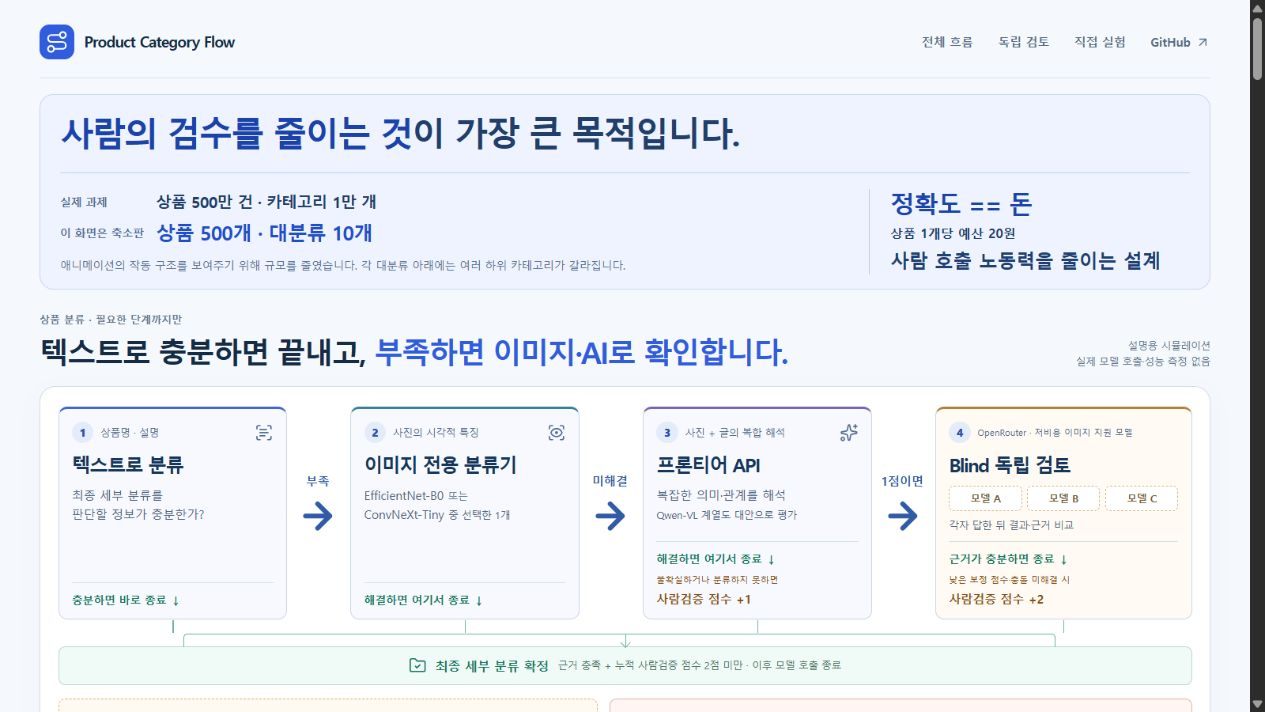
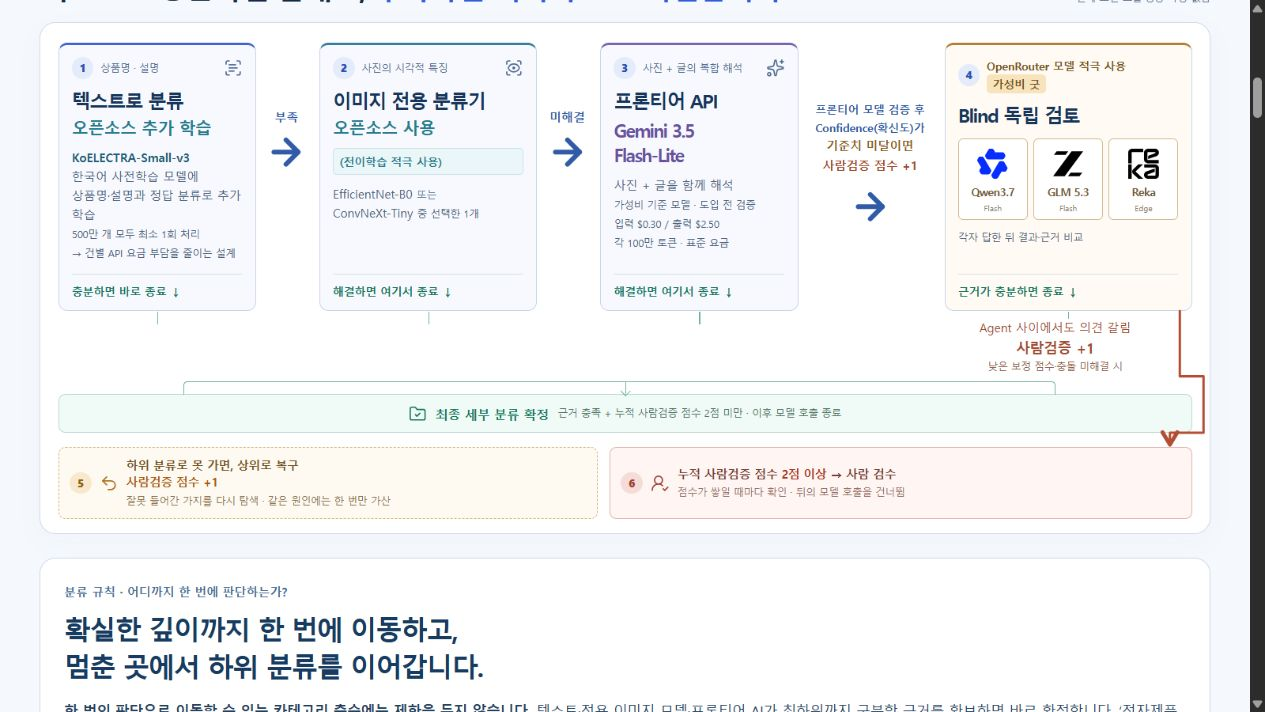
Use one review point for unresolved blind classification

diff --git a/index.html b/index.html
@@ -819,7 +819,7 @@ SOFTWARE.
   <path d="m9 15 3 3-3 3" />
[1 lines of base64/hex data omitted]
   </div>
-  <div class="cascade-score-label" id="cascade-score-label"><span>Agent 사이에서도 의견 갈림</span><strong>사람검증 +2</strong><small>낮은 보정 점수·충돌 미해결 시</small></div>
+  <div class="cascade-score-label" id="cascade-score-label"><span>Agent 사이에서도 의견 갈림</span><strong>사람검증 +1</strong><small>낮은 보정 점수·충돌 미해결 시</small></div>
   <svg class="cascade-score-route" id="cascade-score-route" aria-hidden="true"><defs><marker id="cascade-score-arrow" markerWidth="8" markerHeight="8" refX="6" refY="4" orient="auto"><path d="M1 1 L6 4 L1 7" fill="none" stroke="#b34e35" stroke-width="1.6" stroke-linecap="round" stroke-linejoin="round"/></marker></defs><path id="cascade-score-path" fill="none" stroke="#b34e35" stroke-width="2.5" stroke-linejoin="round" stroke-linecap="round" marker-end="url(#cascade-score-arrow)"/></svg>
   <div class="cascade-success"><span class="success-spoke" aria-hidden="true"></span><svg class="landing-icon" viewBox="0 0 24 24" aria-hidden="true">
   <path d="M20 20a2 2 0 0 0 2-2V8a2 2 0 0 0-2-2h-7.9a2 2 0 0 1-1.69-.9L9.6 3.9A2 2 0 0 0 7.93 3H4a2 2 0 0 0-2 2v13a2 2 0 0 0 2 2Z" />
@@ -871,7 +871,7 @@ SOFTWARE.
    <ol>
     <li><strong>프론티어도 음향기기까지만 판단</strong><p>중간 경로는 보존하고, 최하위 미해결에 따른 사람검증 점수 +1을 기록합니다. 누적 2점 미만일 때만 독립 검토를 진행합니다.</p></li>
     <li><strong>AI Agent들이 먼저 각각 판단</strong><p>같은 원본 사진·글·분류 기준을 주고 서로의 답과 앞선 프론티어의 답을 숨깁니다. ‘음향기기’라는 이전 판단도 강제하지 않아 상위 분류부터 다시 확인할 수 있습니다.</p></li>
-    <li><strong>답 공개 후 의견·근거 비교</strong><p>각 후보의 사진·텍스트 근거와 반례를 비교합니다. 최하위 근거가 충족되면 확정하고, 여전히 불명확하면 +2를 더해 사람 검수로 보냅니다.</p></li>
+    <li><strong>답 공개 후 의견·근거 비교</strong><p>각 후보의 사진·텍스트 근거와 반례를 비교합니다. 최하위 근거가 충족되면 확정하고, 여전히 불명확하면 +1을 더해 누적 2점으로 사람 검수에 보냅니다.</p></li>
    </ol>
    <p class="depth-path">음향기기에서 보류 → <strong>독립 판단 → 근거 비교</strong><br>최하위 확정 또는 <strong>사람 검수</strong></p>
    <p class="depth-outcome">단순 다수결·자기확신 점수 평균으로 최종 확정하지 않음</p>
@@ -883,7 +883,7 @@ SOFTWARE.
    <li><strong>확실한 가장 깊은 위치를 선택합니다.</strong> 정해진 분류표 안에서 근거가 충분한 깊이까지 이동합니다. ‘한 번에 한 층’ 제한은 없지만, 애매하다고 자동으로 다음 층에 진입하지도 않습니다. 판정 기준은 별도 정답 자료로 검증합니다.</li>
    <li><strong>중간 분류는 완료가 아닌 진행 상태입니다.</strong> 원본 입력, 현재 경로·분류표 버전, 남은 후보, 판단 근거와 부족한 정보를 기록합니다. 프론티어는 이를 보조 정보로 활용하면서 원본을 확인하고, 독립 검토의 첫 판단에는 이전 답을 노출하지 않습니다.</li>
    <li><strong>추가 판단은 부족한 근거를 보완할 때 진행합니다.</strong> 사진만으로 부족하면 텍스트까지 함께 보고, 프론티어도 해결하지 못하면 독립 판단 후 근거를 비교합니다. 같은 입력·같은 질문을 카테고리 층마다 반복 호출하지 않습니다. 전용 이미지 모델 자체는 사진만 입력받습니다.</li>
-   <li><strong>잘못된 가지는 되돌리고, 반복 검토는 제한합니다.</strong> 후속 근거와 상위 분류가 충돌하면 상위로 돌아가 대체 후보를 비교합니다. 복구는 1회이며 +1을 기록합니다. 프론티어 미해결 +1, 독립 검토 미해결 +2의 기존 규칙을 유지하고, 누적 2점 이상이면 이후 AI 호출을 중단합니다. 중간에서 멈췄다는 이유만으로 점수를 중복 가산하지 않습니다.</li>
+   <li><strong>잘못된 가지는 되돌리고, 반복 검토는 제한합니다.</strong> 후속 근거와 상위 분류가 충돌하면 상위로 돌아가 대체 후보를 비교합니다. 복구는 1회이며 +1을 기록합니다. 프론티어 미해결 +1, 독립 검토 미해결 +1을 기록하고, 누적 2점 이상이면 이후 AI 호출을 중단합니다. 중간에서 멈췄다는 이유만으로 점수를 중복 가산하지 않습니다.</li>
   </ol>
  </div>
  <p class="depth-scope">위 내용은 적용할 분류 정책을 설명하는 가상 예시입니다. 현재 500개 상품 애니메이션에는 중간 분류를 보존하고 이어서 판단하는 새 동작이 아직 연결되어 있지 않습니다. 실제 모델 호출·정답 기반 기준 검증·비용 측정도 수행 전입니다.</p>
@@ -897,7 +897,7 @@ SOFTWARE.
   <rect x="14" y="3" width="5" height="18" rx="1" />
   <rect x="5" y="3" width="5" height="18" rx="1" />
 </svg></span></span><span id="hero-play-label">분류 과정 재생</span></button><a class="landing-secondary" href="#agent-debate">독립 검토 예시 ↓</a></div><div class="journey-live"><div class="journey-live-top"><span id="hero-status">재생 준비</span><b id="hero-time">0 / 100</b></div><div class="journey-progress" aria-hidden="true"><span id="hero-progress"></span></div><div class="journey-counts"><span>분류 중 <b id="hero-active">10</b></span><span>도착 <b id="hero-done">0</b></span><span>사람 대기 <b id="hero-human">0</b></span><button type="button" id="hero-reset">처음부터 ↺</button></div></div></div>
- <details class="cascade-notes"><summary>사람검증 점수·모델 선택 기준</summary><div><p><strong>1단계 텍스트 모델 · KoELECTRA-Small-v3:</strong> <a href="https://huggingface.co/monologg/koelectra-small-v3-discriminator" target="_blank" rel="noopener noreferrer">monologg/koelectra-small-v3-discriminator</a>를 우선 후보로 선정했습니다. 한국어로 사전학습된 공개 모델에 분류 기능을 붙이고, 상품명·설명과 정답 카테고리로 추가 학습하고 직접 운영하는 설계입니다. 전체 500만 개 상품과 이후 신규 상품이 최소 한 번 거치므로, 건마다 외부 API를 호출하는 비용과 처리량 제약을 줄이려는 선택입니다. 학습 데이터 정리·학습·서버·유지보수 비용은 발생하며, 실제 절감 여부는 전체 비용으로 검증합니다. 검증용 정답에서 보정한 점수와 근거가 부족한 상품만 다음 단계로 보냅니다. KoELECTRA-Small-v3와 KLUE-RoBERTa-small을 같은 정답 상품으로 비교해 오확정률·자동 확정률·처리시간·전체 비용을 검증한 뒤 채택합니다. 아직 이번 상품 분류용으로 추가 학습하거나 성능을 측정하지 않았습니다.</p><p><strong>전용 분류기:</strong> 상품 카테고리에 맞춰 추가 학습한 뒤, 별도로 둔 같은 정답 상품으로 비교합니다. 기본 공개 가중치의 ImageNet 1,000개 분류를 과제의 1만 개 상품 분류로 그대로 쓰지는 않습니다. <a href="https://docs.pytorch.org/vision/main/models/generated/torchvision.models.efficientnet_b0.html" target="_blank" rel="noopener noreferrer">EfficientNet-B0</a> · <a href="https://docs.pytorch.org/vision/main/models/generated/torchvision.models.convnext_tiny.html" target="_blank" rel="noopener noreferrer">ConvNeXt-Tiny 공식 문서</a></p><div class="api-choice-evidence"><h3>3단계 API 선택 근거 · 2026.10.29 확인</h3><p><strong>가성비 기준 모델: Gemini 3.5 Flash-Lite.</strong> 이미지와 텍스트를 함께 입력할 수 있는 <a href="https://ai.google.dev/gemini-api/docs/models/gemini-3.5-flash-lite" target="_blank" rel="noopener noreferrer">gemini-3.5-flash-lite</a>를 우선 검증합니다. Google 공식 CharXiv(복잡한 차트 해석) 평가는 74.5%(High 추론 설정 · 도구 미사용)입니다. 제조사 공개 평가이며, 이 상품 분류 과제의 정확도나 모든 모델 중 최고 가성비를 입증하지는 않습니다.</p><div class="api-choice-table"><table><caption>공식 표준 API 요금 비교 · USD / 100만 토큰 · 캐시·Batch 할인 제외</caption><thead><tr><th scope="col">모델</th><th scope="col">입력</th><th scope="col">출력</th><th scope="col">판단 근거</th></tr></thead><tbody><tr><th scope="row">Gemini 3.5 Flash-Lite</th><td>$0.30</td><td>$2.50</td><td>현재 선정한 가성비 기준 모델 · 이미지·텍스트 복합 해석</td></tr><tr><th scope="row">Gemini 3.1 Flash-Lite</th><td>$0.25</td><td>$1.50</td><td>단가가 더 낮은 비교 후보 · 동일 상품으로 품질 검증</td></tr><tr><th scope="row">Qwen3-VL-Flash</th><td>$0.05</td><td>$0.40</td><td>더 저렴한 비교 후보 · 싱가포르 International, 입력 32K 이하</td></tr></tbody></table></div><p>동일 조건의 상품 분류 비교 결과는 아직 확보하지 못했습니다. 이미지를 포함한 입력 토큰 수·해상도·추론 토큰은 모델마다 다릅니다. 먼저 1·2단계에서 남은 어려운 상품의 별도 정답 묶음으로 최종 세부 분류 정확도, 잘못 확정한 비율, 사람 검수량, 지연시간과 총비용을 비교합니다. <strong>같은 품질 기준을 통과한 모델 중 전체 비용이 낮은 모델을 최종 선택합니다.</strong></p><p class="api-choice-sources">출처: <a href="https://ai.google.dev/gemini-api/docs/models/gemini-3.5-flash-lite" target="_blank" rel="noopener noreferrer">3.5 공식 모델 문서</a> · <a href="https://deepmind.google/models/model-cards/gemini-3-5-flash-lite/" target="_blank" rel="noopener noreferrer">3.5 공식 평가</a> · <a href="https://ai.google.dev/gemini-api/docs/pricing" target="_blank" rel="noopener noreferrer">Gemini 공식 요금</a> · <a href="https://www.alibabacloud.com/help/en/model-studio/model-pricing" target="_blank" rel="noopener noreferrer">Qwen 공식 요금</a></p></div><div class="api-choice-evidence"><h3>독립 검토 선정 모델 · 2026.10.29</h3><div class="api-choice-table"><table><caption>OpenRouter 공급자별 요금 예시 · USD / 100만 토큰 · 입력 / 출력</caption><thead><tr><th scope="col">모델</th><th scope="col">입력 / 출력</th><th scope="col">선정 이유</th></tr></thead><tbody><tr><th scope="row"><a href="https://openrouter.ai/qwen/qwen3.7-flash" target="_blank" rel="noopener noreferrer">Qwen3.7 Flash</a></th><td>$0.03 / $0.13</td><td>물체 인식·시각 이해 · 낮은 단가</td></tr><tr><th scope="row"><a href="https://openrouter.ai/z-ai/glm-5.3-flash" target="_blank" rel="noopener noreferrer">GLM 5.3 Flash</a></th><td>$0.0481 / $0.0625</td><td>다른 계열의 독립 판정 · 출력 비용 절감</td></tr><tr><th scope="row"><a href="https://openrouter.ai/rekaai/reka-edge" target="_blank" rel="noopener noreferrer">Reka Edge</a></th><td>$0.10 / $0.10</td><td>이미지 이해 중심 · 낮은 출력 단가</td></tr></tbody></table></div><p>요금은 각각 Alibaba(입력 32K 미만), OpenInference, Reka 공급자 경로의 확인값입니다. 이미지 해상도·토큰 수·추론·재시도·공급자에 따라 실제 상품당 비용은 달라집니다. 앞 단계가 해결하지 못한 같은 정답 상품으로 정확도·오확정률·사람 검수량·전체 비용을 비교합니다. 현재 답안은 실제 모델 호출 결과가 아닌 설계용 예시입니다.</p></div><p><strong>독립 검토:</strong> 이미지 입력을 지원하는 모델마다 같은 상품 정보와 분류 기준을 줍니다. 첫 답을 낼 때는 다른 모델과 프론티어의 결론을 보여주지 않고, 답이 모두 나온 뒤에 비교합니다. <a href="https://github.com/OpenRouterTeam/docs/blob/main/guides/overview/multimodal/image-understanding.mdx" target="_blank" rel="noopener noreferrer">OpenRouter 이미지 입력 문서</a></p><p><strong>확신도:</strong> 서로 다른 모델이 스스로 매긴 숫자를 그대로 평균 내지 않습니다. 같은 후보를 기준으로 정답 데이터에 맞춰 보정한 점수와 근거 일치 여부를 함께 확인합니다. 이 화면의 점수는 규칙 설명용 가상 값이며 실제 보정 결과가 아닙니다. <a href="https://proceedings.mlr.press/v70/guo17a.html" target="_blank" rel="noopener noreferrer">확신도 보정 연구</a></p><p><strong>누적 사람검증 점수:</strong> 사람이 확인해야 할 필요성을 누적하는 규칙 점수로, 모델의 신뢰도와는 다릅니다. 프론티어 불확실 +1, 독립 검토 후 확신 부족·미해결 충돌 +2, 경로 복구 +1을 더합니다. 복구 1점 + 프론티어 1점이면 독립 검토 전에 사람에게 보냅니다. 프론티어 1점 + 독립 검토 2점이면 합계 3점입니다. 사진을 읽을 수 없거나 안전하게 분류할 근거가 없으면 점수와 별개로 보류할 수 있습니다.</p><p><strong>평균 예산 20원:</strong> 총 1억 원 ÷ 500만 상품의 평균입니다. 학습·서버·API·사람 검수·오분류 수정 비용을 함께 비교해야 합니다.</p></div></details>
+ <details class="cascade-notes"><summary>사람검증 점수·모델 선택 기준</summary><div><p><strong>1단계 텍스트 모델 · KoELECTRA-Small-v3:</strong> <a href="https://huggingface.co/monologg/koelectra-small-v3-discriminator" target="_blank" rel="noopener noreferrer">monologg/koelectra-small-v3-discriminator</a>를 우선 후보로 선정했습니다. 한국어로 사전학습된 공개 모델에 분류 기능을 붙이고, 상품명·설명과 정답 카테고리로 추가 학습하고 직접 운영하는 설계입니다. 전체 500만 개 상품과 이후 신규 상품이 최소 한 번 거치므로, 건마다 외부 API를 호출하는 비용과 처리량 제약을 줄이려는 선택입니다. 학습 데이터 정리·학습·서버·유지보수 비용은 발생하며, 실제 절감 여부는 전체 비용으로 검증합니다. 검증용 정답에서 보정한 점수와 근거가 부족한 상품만 다음 단계로 보냅니다. KoELECTRA-Small-v3와 KLUE-RoBERTa-small을 같은 정답 상품으로 비교해 오확정률·자동 확정률·처리시간·전체 비용을 검증한 뒤 채택합니다. 아직 이번 상품 분류용으로 추가 학습하거나 성능을 측정하지 않았습니다.</p><p><strong>전용 분류기:</strong> 상품 카테고리에 맞춰 추가 학습한 뒤, 별도로 둔 같은 정답 상품으로 비교합니다. 기본 공개 가중치의 ImageNet 1,000개 분류를 과제의 1만 개 상품 분류로 그대로 쓰지는 않습니다. <a href="https://docs.pytorch.org/vision/main/models/generated/torchvision.models.efficientnet_b0.html" target="_blank" rel="noopener noreferrer">EfficientNet-B0</a> · <a href="https://docs.pytorch.org/vision/main/models/generated/torchvision.models.convnext_tiny.html" target="_blank" rel="noopener noreferrer">ConvNeXt-Tiny 공식 문서</a></p><div class="api-choice-evidence"><h3>3단계 API 선택 근거 · 2026.10.29 확인</h3><p><strong>가성비 기준 모델: Gemini 3.5 Flash-Lite.</strong> 이미지와 텍스트를 함께 입력할 수 있는 <a href="https://ai.google.dev/gemini-api/docs/models/gemini-3.5-flash-lite" target="_blank" rel="noopener noreferrer">gemini-3.5-flash-lite</a>를 우선 검증합니다. Google 공식 CharXiv(복잡한 차트 해석) 평가는 74.5%(High 추론 설정 · 도구 미사용)입니다. 제조사 공개 평가이며, 이 상품 분류 과제의 정확도나 모든 모델 중 최고 가성비를 입증하지는 않습니다.</p><div class="api-choice-table"><table><caption>공식 표준 API 요금 비교 · USD / 100만 토큰 · 캐시·Batch 할인 제외</caption><thead><tr><th scope="col">모델</th><th scope="col">입력</th><th scope="col">출력</th><th scope="col">판단 근거</th></tr></thead><tbody><tr><th scope="row">Gemini 3.5 Flash-Lite</th><td>$0.30</td><td>$2.50</td><td>현재 선정한 가성비 기준 모델 · 이미지·텍스트 복합 해석</td></tr><tr><th scope="row">Gemini 3.1 Flash-Lite</th><td>$0.25</td><td>$1.50</td><td>단가가 더 낮은 비교 후보 · 동일 상품으로 품질 검증</td></tr><tr><th scope="row">Qwen3-VL-Flash</th><td>$0.05</td><td>$0.40</td><td>더 저렴한 비교 후보 · 싱가포르 International, 입력 32K 이하</td></tr></tbody></table></div><p>동일 조건의 상품 분류 비교 결과는 아직 확보하지 못했습니다. 이미지를 포함한 입력 토큰 수·해상도·추론 토큰은 모델마다 다릅니다. 먼저 1·2단계에서 남은 어려운 상품의 별도 정답 묶음으로 최종 세부 분류 정확도, 잘못 확정한 비율, 사람 검수량, 지연시간과 총비용을 비교합니다. <strong>같은 품질 기준을 통과한 모델 중 전체 비용이 낮은 모델을 최종 선택합니다.</strong></p><p class="api-choice-sources">출처: <a href="https://ai.google.dev/gemini-api/docs/models/gemini-3.5-flash-lite" target="_blank" rel="noopener noreferrer">3.5 공식 모델 문서</a> · <a href="https://deepmind.google/models/model-cards/gemini-3-5-flash-lite/" target="_blank" rel="noopener noreferrer">3.5 공식 평가</a> · <a href="https://ai.google.dev/gemini-api/docs/pricing" target="_blank" rel="noopener noreferrer">Gemini 공식 요금</a> · <a href="https://www.alibabacloud.com/help/en/model-studio/model-pricing" target="_blank" rel="noopener noreferrer">Qwen 공식 요금</a></p></div><div class="api-choice-evidence"><h3>독립 검토 선정 모델 · 2026.10.29</h3><div class="api-choice-table"><table><caption>OpenRouter 공급자별 요금 예시 · USD / 100만 토큰 · 입력 / 출력</caption><thead><tr><th scope="col">모델</th><th scope="col">입력 / 출력</th><th scope="col">선정 이유</th></tr></thead><tbody><tr><th scope="row"><a href="https://openrouter.ai/qwen/qwen3.7-flash" target="_blank" rel="noopener noreferrer">Qwen3.7 Flash</a></th><td>$0.03 / $0.13</td><td>물체 인식·시각 이해 · 낮은 단가</td></tr><tr><th scope="row"><a href="https://openrouter.ai/z-ai/glm-5.3-flash" target="_blank" rel="noopener noreferrer">GLM 5.3 Flash</a></th><td>$0.0481 / $0.0625</td><td>다른 계열의 독립 판정 · 출력 비용 절감</td></tr><tr><th scope="row"><a href="https://openrouter.ai/rekaai/reka-edge" target="_blank" rel="noopener noreferrer">Reka Edge</a></th><td>$0.10 / $0.10</td><td>이미지 이해 중심 · 낮은 출력 단가</td></tr></tbody></table></div><p>요금은 각각 Alibaba(입력 32K 미만), OpenInference, Reka 공급자 경로의 확인값입니다. 이미지 해상도·토큰 수·추론·재시도·공급자에 따라 실제 상품당 비용은 달라집니다. 앞 단계가 해결하지 못한 같은 정답 상품으로 정확도·오확정률·사람 검수량·전체 비용을 비교합니다. 현재 답안은 실제 모델 호출 결과가 아닌 설계용 예시입니다.</p></div><p><strong>독립 검토:</strong> 이미지 입력을 지원하는 모델마다 같은 상품 정보와 분류 기준을 줍니다. 첫 답을 낼 때는 다른 모델과 프론티어의 결론을 보여주지 않고, 답이 모두 나온 뒤에 비교합니다. <a href="https://github.com/OpenRouterTeam/docs/blob/main/guides/overview/multimodal/image-understanding.mdx" target="_blank" rel="noopener noreferrer">OpenRouter 이미지 입력 문서</a></p><p><strong>확신도:</strong> 서로 다른 모델이 스스로 매긴 숫자를 그대로 평균 내지 않습니다. 같은 후보를 기준으로 정답 데이터에 맞춰 보정한 점수와 근거 일치 여부를 함께 확인합니다. 이 화면의 점수는 규칙 설명용 가상 값이며 실제 보정 결과가 아닙니다. <a href="https://proceedings.mlr.press/v70/guo17a.html" target="_blank" rel="noopener noreferrer">확신도 보정 연구</a></p><p><strong>누적 사람검증 점수:</strong> 사람이 확인해야 할 필요성을 누적하는 규칙 점수로, 모델의 신뢰도와는 다릅니다. 프론티어 불확실 +1, 독립 검토 후 확신 부족·미해결 충돌 +1, 경로 복구 +1을 더합니다. 복구 1점 + 프론티어 1점이면 독립 검토 전에 사람에게 보냅니다. 프론티어 1점 + 독립 검토 1점이면 합계 2점으로 사람 검수에 도달합니다. 사진을 읽을 수 없거나 안전하게 분류할 근거가 없으면 점수와 별개로 보류할 수 있습니다.</p><p><strong>평균 예산 20원:</strong> 총 1억 원 ÷ 500만 상품의 평균입니다. 학습·서버·API·사람 검수·오분류 수정 비용을 함께 비교해야 합니다.</p></div></details>
 </section>
 <div class="overview-caption"><span>상품을 선택하면 이동 경로와 누적 사람검증 점수를 볼 수 있습니다.</span><a href="#simulation-panel">상세 시뮬레이션 ↓</a></div>
 <div class="simulation-intro" id="simulation"><div><p class="section-eyebrow">EXPLORE THE CLASSIFICATION</p><h2>이제, 상품이 흐르는 모습을 살펴보세요.</h2><p>재생하거나 장면을 움직이고, 상품을 선택해 분류 근거를 확인하세요.</p></div><a href="#overview">전체 흐름으로 ↑</a></div>
@@ -907,8 +907,8 @@ SOFTWARE.
 <div class="panelbar"><div><p class="panel-kicker">분류 흐름</p><h2>상품이 지나가는 경로</h2></div><small>10개 예시 분야 · 상품을 누르면 현재 상태 확인</small></div>
 <div class="quick-controls" id="flow-toolbar"><button type="button" class="primary" id="quick-play">▶ 재생</button><button type="button" id="quick-step">한 장면 ↓</button><button type="button" id="quick-reset">처음부터</button><button type="button" id="flow-fit-toggle" aria-pressed="true" aria-controls="tree">전체 구조 맞춤</button><output id="flow-scale" aria-label="분류도 배율"></output><label class="category-focus-label">분야 찾기 <select id="category-focus" aria-label="전체 구조에서 분야 강조"><option value="">분야 선택</option></select></label><div class="quick-seek"><label for="quick-timeline">진행 장면</label><input type="range" id="quick-timeline" min="0" max="100" value="0" step="1" aria-label="진행 장면 선택"><output id="quick-time" aria-label="현재 진행 장면">0 / 100</output></div><label class="quick-speed-label" for="quick-speed">속도 <select id="quick-speed"><option value="0.6">느리게</option><option value="1" selected>보통</option><option value="1.8">빠르게</option></select></label></div>
 <section class="review-monitor" aria-label="복구와 누적 사람검증 점수">
- <div class="review-monitor-top"><strong>복구 <b id="recovery-count">0</b>건 <span>·</span> 사람 검수 <b id="review-queue-count">0</b>건</strong><div class="review-samples"><button type="button" id="human-transfer-demo">2점 → 검수 이동 재생</button><button type="button" data-review-example="resolved">독립 비교 해결 · 1점</button><button type="button" data-review-example="conflict">복구 + 프론티어 · 2점</button><button type="button" data-review-example="low">독립 비교 미해결 · 3점</button></div></div>
- <div class="review-current"><b id="review-focus">P001 · 사람검증 점수 0 / 2점</b><span id="review-focus-detail">사람검증 점수: 복구 +1 · 프론티어 미해결 +1 · 독립 비교 미해결 +2</span></div>
+ <div class="review-monitor-top"><strong>복구 <b id="recovery-count">0</b>건 <span>·</span> 사람 검수 <b id="review-queue-count">0</b>건</strong><div class="review-samples"><button type="button" id="human-transfer-demo">2점 → 검수 이동 재생</button><button type="button" data-review-example="resolved">독립 비교 해결 · 1점</button><button type="button" data-review-example="conflict">복구 + 프론티어 · 2점</button><button type="button" data-review-example="low">독립 비교 미해결 · 2점</button></div></div>
+ <div class="review-current"><b id="review-focus">P001 · 사람검증 점수 0 / 2점</b><span id="review-focus-detail">사람검증 점수: 복구 +1 · 프론티어 미해결 +1 · 독립 비교 미해결 +1</span></div>
 </section>
 <p class="scrollhint">아래 사각형은 같은 모델 A의 최대 20개 실행 슬롯입니다. 색이 진한 슬롯은 준비된 복제본, 흐린 슬롯은 미사용입니다.<span class="mobile-tree-hint">전체 구조가 화면에 맞춰 표시됩니다. 상품을 누르면 분류도 위에서 검수 점수와 판단 요약을 볼 수 있습니다.</span></p>
 <div class="tree-scroll"><div class="tree" id="tree">
@@ -934,7 +934,7 @@ SOFTWARE.
  <p class="human-sector-note">사진 불량·복구 실패도 별도 보류<br>검수 완료나 정답 확정을 뜻하지 않습니다.</p>
 </section><div class="human-flight-label" id="human-flight-label" hidden aria-hidden="true"></div><div id="tokens"></div><div class="flow-scores" id="flow-scores" aria-label="화살표 옆 상품별 현재 단계 점수"></div>
 </div></div>
-<div class="route-note"><strong>주황 화살표: 상위로 돌아가 후보 재탐색</strong> 사람검증 점수: 복구 +1 · 프론티어 미해결 +1 · 독립 비교의 낮은 보정 점수·충돌 미해결 +2. <b>누적 사람검증 점수 2점 이상 → 사람 검수.</b><span>같은 원인은 중복 가산하지 않습니다. 0~1점도 최종 근거를 확인해야 통과합니다. 사진 불량은 별도 보류합니다. 점수는 가상 예시입니다.</span></div>
+<div class="route-note"><strong>주황 화살표: 상위로 돌아가 후보 재탐색</strong> 사람검증 점수: 복구 +1 · 프론티어 미해결 +1 · 독립 비교의 낮은 보정 점수·충돌 미해결 +1. <b>누적 사람검증 점수 2점 이상 → 사람 검수.</b><span>같은 원인은 중복 가산하지 않습니다. 0~1점도 최종 근거를 확인해야 통과합니다. 사진 불량은 별도 보류합니다. 점수는 가상 예시입니다.</span></div>
 <details class="prep-disclosure"><summary>판매자 정보 보강 설정<span>바코드 일치 · 부족 정보 질문 · 가상 보상 제안</span></summary><section class="seller-panel" aria-labelledby="seller-title">
  <div class="seller-top"><div><h3 id="seller-title">분류 전 · 판매자 정보 보강</h3><p>기존 상품을 처리하면서 판매자가 제공한 정보를 함께 사용합니다. 이 화면은 응답이 도착했거나 오지 않은 상태를 가정합니다.</p></div><label class="seller-switch"><input id="seller-incentive" type="checkbox" checked> 가상 보상 제안 켜기</label></div>
  <div class="seller-flow"><div class="seller-flow-step"><b>① 바코드 · 모델명</b><span>판매자가 아는 상품 식별 정보를 입력합니다.</span></div><div class="seller-flow-step"><b>② 기존 정보 자동 채움</b><span>같은 상품과 옵션이 맞으면 부족한 정보를 가져옵니다.</span></div><div class="seller-flow-step"><b>③ 부족한 정보 보강</b><span>필요한 질문을 하고, 답변을 보강하면 가상 크레딧을 제안합니다.</span></div></div>
@@ -1131,7 +1131,7 @@ SOFTWARE.
 <li>판매자의 바코드·모델명으로 기존 정보를 찾아 부족한 내용을 채웁니다. 아직 필요한 정보가 있으면 질문하고, 응답이 없으면 기다리지 않고 분류합니다.</li>
 <li>20개씩 25묶음, 총 500개 상품을 장면마다 10개씩 입력합니다. 1차 복제본이 바쁘면 대기열에서 기다리며, 앞선 상품은 아래 단계에서 계속 처리합니다.</li>
 <li>1차에서 정보가 충분하고 최종 후보 점수와 상위 분류가 기준을 충족하면 초록색 경로로 최종 바스켓에 직행합니다.</li>
-<li>그 외 상품은 화질 검사 후 전용 이미지 분류기 1개로 확인합니다. 미해결이면 프론티어, 여전히 부족하면 사람검증 점수 +1 뒤 이미지 지원 저비용 모델의 독립 판단·비교를 진행합니다. 미해결 비교는 사람검증 점수 +2, 분기 막힘의 1회 복구는 사람검증 점수 +1이며 매 가산 직후 2점 이상이면 사람에게 보냅니다.</li>
+<li>그 외 상품은 화질 검사 후 전용 이미지 분류기 1개로 확인합니다. 미해결이면 프론티어, 여전히 부족하면 사람검증 점수 +1 뒤 이미지 지원 저비용 모델의 독립 판단·비교를 진행합니다. 미해결 비교는 사람검증 점수 +1, 분기 막힘의 1회 복구는 사람검증 점수 +1이며 매 가산 직후 2점 이상이면 사람에게 보냅니다.</li>
 <li>보상 제안이나 직행 기준을 바꾸면 같은 상품의 현재 장면을 다시 계산합니다. ‘처음부터’는 설정을 유지한 채 장면을 0으로 돌립니다.</li>
 </ol><table class="text-table"><thead><tr><th scope="col">예시 상품</th><th scope="col">분류 경로</th><th scope="col">현재 상태</th></tr></thead><tbody id="text-states"></tbody></table></details>
 <div class="landing-credits"><p>아이콘: <a href="https://lucide.dev/" target="_blank" rel="noopener noreferrer">Lucide</a> · ISC / MIT<br>모델 로고: <a href="https://github.com/lobehub/lobe-icons/tree/8b7bbc433d38437fa2b0cca58ae896917162b812" target="_blank" rel="noopener noreferrer">Lobe Icons</a> · MIT · 각 브랜드 식별용, 제휴·보증 의미 없음</p><p>분류도·상품 그림: 자체 제작 SVG<br>구현·수정: Codex 활용 · 설계 검토: PAL 무료 모델 검토 절차</p></div>
@@ -1514,8 +1514,8 @@ function routeFor(product,threshold=70){
  add('compare',stage,1,'독립 판단을 모은 뒤 공통 후보 라벨에서 근거를 비교합니다. 자기확신의 평균을 확률로 사용하지 않습니다.',{candidateLeafIds,candidateLabels:candidateLeafIds.map(id=>({id,path:LEAVES.find(l=>l.id===id).path})),syntheticScore:fixture.blind.score,calibrationFitted:false});
  const agreed=fixture.blind.agreed&&new Set(assessments.map(a=>a.candidateLeafId)).size===1;
  const accepted=agreed&&resolved(fixture.blind,0)&&fixture.blind.score>threshold;
- if(!accepted)ledger.record('blind','unresolved-blind',2,!agreed?'독립 비교 후 충돌 미해결 · 사람검증 점수 +2':'독립 비교 후 근거 부족 · 사람검증 점수 +2');
- add('blindResult',stage,0,accepted?'합성 비교 결과 최종 세부 분류 근거 일치 · 사람검증 점수 +0.':'독립 비교 미해결 · 사람검증 점수 +2 가산 직후 누적 '+ledger.score+'점 확인.',{agreed,syntheticScore:fixture.blind.score,calibrationFitted:false});
+ if(!accepted)ledger.record('blind','unresolved-blind',1,!agreed?'독립 비교 후 충돌 미해결 · 사람검증 점수 +1':'독립 비교 후 근거 부족 · 사람검증 점수 +1');
+ add('blindResult',stage,0,accepted?'합성 비교 결과 최종 세부 분류 근거 일치 · 사람검증 점수 +0.':'독립 비교 미해결 · 사람검증 점수 +1 가산 직후 누적 '+ledger.score+'점 확인.',{agreed,syntheticScore:fixture.blind.score,calibrationFitted:false});
  if(!gate(stage))return route;
  if(!accepted){hold(stage,'최종 세부 분류 근거 부족 · 사람 확인');return route;}
  return finish('독립 이미지·텍스트 비교');
@@ -1769,11 +1769,11 @@ function showReviewExample(kind){
   const last=e.route.at(-1),events=last.reviewEvents;
   if(kind==='resolved')return last.kind==='done'&&last.reviewScore===1&&e.route.some(r=>r.kind==='blind');
   if(kind==='conflict')return last.kind==='human'&&last.reviewScore===2&&events.some(r=>r.kind==='recovery')&&events.some(r=>r.kind==='frontier');
-  return last.kind==='human'&&last.reviewScore===3&&events.some(r=>r.kind==='blind');
+  return last.kind==='human'&&last.reviewScore===2&&events.some(r=>r.kind==='blind');
  });
  if(!match){setStatus('현재 설정에서 이 예시가 없습니다. 기준을 조절해 보세요.');return;}
  const segment=kind==='conflict'?match.route.find(r=>r.kind==='recoverUp'):match.route.find(r=>r.kind==='blind');
- pause();selected=match.product.id;time=segment.start;setStatus(match.product.id+' · '+(kind==='resolved'?'프론티어 +1 뒤 독립 비교 해결 → 1점 통과':kind==='conflict'?'복구 +1 뒤 프론티어 +1 → 2점 즉시 사람 검수':'프론티어 +1 뒤 독립 비교 미해결 +2 → 3점 사람 검수')+' 합성 예시입니다.');render();if(typeof setFlowView==='function')setFlowView(true);
+ pause();selected=match.product.id;time=segment.start;setStatus(match.product.id+' · '+(kind==='resolved'?'프론티어 +1 뒤 독립 비교 해결 → 1점 통과':kind==='conflict'?'복구 +1 뒤 프론티어 +1 → 2점 즉시 사람 검수':'프론티어 +1 뒤 독립 비교 미해결 +1 → 2점 사람 검수')+' 합성 예시입니다.');render();if(typeof setFlowView==='function')setFlowView(true);
 }
 
 function render(){const entries=simulate(time,threshold),visible=selectVisible(entries),visibleIds=new Set(visible.map(e=>e.product.id)),counts={waiting:0,rootwait:0,active:0,review:0,done:0,human:0};let checks=0;entries.forEach(e=>{const k=e.state.kind;counts[k==='waiting'?'waiting':k==='rootwait'?'rootwait':k==='done'?'done':k==='human'?'human':['review','reviewResult','frontier','frontierResult','blind','compare','blindResult',...RECOVERY_KINDS].includes(k)?'review':'active']++;checks+=e.state.checks||0;});$('quick-timeline').value=time;$('quick-play').textContent=playing?'Ⅱ 일시정지':time===MAX_TIME?'↻ 다시 재생':'▶ 재생';$('quick-step').disabled=time===MAX_TIME;$('quick-time').textContent=time+' / '+MAX_TIME;renderLanding(counts);

diff --git a/README.md b/README.md
@@ -31,7 +31,7 @@
 1. **텍스트로 분류:** 최종 세부 분류를 특정할 근거가 충분하면 바로 종료합니다.
 2. **이미지 전용 분류기 1개:** 텍스트로 해결되지 않은 상품의 사진을 확인합니다. 해결되면 종료합니다.
 3. **프론티어 API:** 전용 분류기로 해결하지 못한 사진·글의 복합 의미를 해석하는 단계입니다. 불확실하거나 분류하지 못하면 **사람검증 점수 +1**입니다.
-4. **OpenRouter 독립 검토:** 이미지 입력을 지원하는 저비용 모델들이 같은 상품 정보와 분류 기준을 각각 받습니다. 첫 판정에는 서로의 답이나 앞선 프론티어의 답을 주지 않습니다. 답을 모은 뒤 결과·근거를 비교하고, 낮은 보정 점수·충돌 미해결 시 **사람검증 점수 +2**를 더합니다.
+4. **OpenRouter 독립 검토:** 이미지 입력을 지원하는 저비용 모델들이 같은 상품 정보와 분류 기준을 각각 받습니다. 첫 판정에는 서로의 답이나 앞선 프론티어의 답을 주지 않습니다. 답을 모은 뒤 결과·근거를 비교하고, 낮은 보정 점수·충돌 미해결 시 **사람검증 점수 +1**를 더합니다.
 5. **경로 복구:** 잘못된 가지에 들어가거나 다음 하위 후보로 진행하지 못하면 상위로 돌아가 대체 후보를 찾고 **사람검증 점수 +1**입니다.
 6. **즉시 사람 검수:** 점수가 늘 때마다 확인해 **누적 사람검증 점수가 2점 이상이면 이후 모델 호출을 생략**합니다.
 
@@ -41,7 +41,7 @@
 | --- | --- |
 | 프론티어 미해결 +1 → 독립 검토로 해결 +0 | 1점, 근거 충족 후 분류 |
 | 복구 +1 → 프론티어 미해결 +1 | 2점, 독립 검토 전에 사람 검수 |
-| 프론티어 미해결 +1 → 독립 검토 미해결 +2 | 3점, 사람 검수 |
+| 프론티어 미해결 +1 → 독립 검토 미해결 +1 | 2점, 사람 검수 |
 
 이 순서와 점수는 웹 데모의 상태 전환에 반영되어 있습니다. 모델 응답 자체는 고정한 가상 사례입니다.
 
@@ -122,14 +122,14 @@
 
 카드 A·B·C는 각각 Qwen3.7 Flash·GLM 5.3 Flash·Reka Edge를 배치한 예시입니다. 같은 원본과 분류 기준을 전달하고, 앞선 프론티어의 후보·근거·점수와 다른 모델의 답은 전달하지 않는 설계를 보여줍니다. 답안 공개 버튼·비교 그래프·근거 표·결과 비교 영역은 화면에서 제거했습니다.
 
-첫 판정에서 충분하면 0점으로 종료합니다. 추가 독립 검토로 해결하면 누적 1점에서 분류하고, 여전히 불확실하면 +2를 더해 누적 3점으로 사람 검수에 보냅니다. 표시된 점수와 사례는 설명을 위한 가상 값입니다. 실제 모델의 원점수는 그대로 평균 내지 않고 같은 정답 자료로 보정한 뒤 근거와 함께 비교해야 합니다. 실제 저비용 모델 선정·호출·비용 측정·보정은 수행하지 않았습니다.
+첫 판정에서 충분하면 0점으로 종료합니다. 추가 독립 검토로 해결하면 누적 1점에서 분류하고, 여전히 불확실하면 +1을 더해 누적 2점으로 사람 검수에 보냅니다. 표시된 점수와 사례는 설명을 위한 가상 값입니다. 실제 모델의 원점수는 그대로 평균 내지 않고 같은 정답 자료로 보정한 뒤 근거와 함께 비교해야 합니다. 실제 저비용 모델 선정·호출·비용 측정·보정은 수행하지 않았습니다.
 
 ## 직접 조작하기
 
 - 분류도는 처음부터 **전체 구조 맞춤** 상태입니다. **직접 실험**이나 **분류 과정 재생**을 누르면 10개 분야·직행 통로·사람 검수 구역이 함께 보입니다. 선택한 상품의 검수 점수와 판단 요약은 분류도 위에서 확인합니다.
 - **독립 검토 예시**는 공통 입력·첫 판정·조건부 독립 검토 요청의 구조를 설명하는 카드로 표시합니다.
 - 분류도 상단의 재생·장면 이동·초기화·속도 조절과 분류도 안의 사람 검수 구역을 사용합니다.
-- **독립 비교 해결 · 1점 / 복구 + 프론티어 · 2점 / 독립 비교 미해결 · 3점** 버튼은 가상 상품의 해당 장면으로 이동합니다.
+- **독립 비교 해결 · 1점 / 복구 + 프론티어 · 2점 / 독립 비교 미해결 · 2점** 버튼은 가상 상품의 해당 장면으로 이동합니다.
 - **2점 → 검수 이동 재생**은 실제 누적 2점 상품이 분류를 멈추고 오른쪽 사람 검수 구역으로 날아가는 장면을 재생합니다. 검수 전환·이동 중·도착 수를 나누어 표시하며, 도착 후에는 대기 목록에 남습니다.
 - **분야 찾기**는 전체 배율을 유지한 채 해당 분야를 강조합니다. 진행 막대, 재생·정지·초기화로 경로와 결과를 살펴봅니다.
 - 반려동물 분야와 최종 직행 통로 사이에 여백을 확보했습니다. 분야명·판단 상자·검수 표시를 키웠습니다. 페이지 길이를 줄이기 위해 단계별 병렬 상품 목록과 개별 상품 상세 카드는 제거했습니다.

diff --git a/docs/recovery-review.md b/docs/recovery-review.md
@@ -3,19 +3,19 @@
 ## 현재 정책
 
 - 프론티어 미해결·불확실: 사람검증 점수 +1.
-- 독립 검토 후 낮은 비교 점수·근거 부족·미해결 충돌: 사람검증 점수 +2를 앞선 점수에 추가.
+- 독립 검토 후 낮은 비교 점수·근거 부족·미해결 충돌: 사람검증 점수 +1을 앞선 점수에 추가.
 - 잘못된 가지·다음 하위 후보 진행 불가로 실제 상위 복구: 사람검증 점수 +1.
 - 매 가산 직후 누적 2점 이상이면 이후 모델 호출 없이 사람 검수.
 
-복구 +1 뒤 프론티어 +1이면 2점에서 멈추고 독립 검토를 생략한다. 프론티어 +1 뒤 독립 검토 +2이면 3점이다. 이전 정책의 '충돌 +1 대신 낮은 확신 +2'는 현재 누적 정책에 적용하지 않는다.
+복구 +1 뒤 프론티어 +1이면 2점에서 멈추고 독립 검토를 생략한다. 프론티어 +1 뒤 독립 검토 미해결 +1이면 누적 2점으로 사람 검수에 도달한다. 낮은 비교 점수와 미해결 충돌은 같은 독립 검토 사건으로 1점만 기록한다.
 
 같은 상품·사건 유형·원인은 중복 가산하지 않는다. 단순한 낮은 점수는 다음 모델로 보내는 사유이며, 실제 잘못된 분기·막힌 하위 경로가 있을 때 복구 점수를 더한다. 데모 복구는 같은 부모 아래 대체 분기를 한 번 탐색한다. 사진 불량이나 복구 후보 소진은 2점 미만이어도 별도 보류한다.
 
 ## 화면과 검사
 
-주황 복귀·재진입 화살표, 상품별 누적 사유, 검수 대기 목록을 연결했다. 세 가지 예시 버튼의 마지막 상태는 1점 분류 완료, 2점 검수, 3점 검수다. 이전·다음 장면과 초기화에서도 당시 점수만 표시한다.
+주황 복귀·재진입 화살표, 상품별 누적 사유, 검수 대기 목록을 연결했다. 세 가지 예시 버튼의 마지막 상태는 독립 비교 해결 시 1점 분류 완료, 복구 후 프론티어 미해결 시 2점 검수, 독립 비교 미해결 시 2점 검수다. 이전·다음 장면과 초기화에서도 당시 점수만 표시한다.
 
-`test-recovery-score.cjs`는 중복 가산 방지, 독립 사건 합산, 점수 스냅샷 보존, 형제 분기, 복구 횟수 한도, 예시 버튼·초기화를 검사한다. `test-cascade.cjs`는 2점 도달 뒤 추가 호출 생략과 독립 비교의 +2 추가를 검사한다. 브라우저에서 세 사례의 점수·최종 상태와 0점 초기화를 확인했다.
+`test-recovery-score.cjs`는 중복 가산 방지, 독립 사건 합산, 점수 스냅샷 보존, 형제 분기, 복구 횟수 한도, 예시 버튼·초기화를 검사한다. `test-cascade.cjs`는 2점 도달 뒤 추가 호출 생략과 독립 비교의 +1 추가를 검사한다. 브라우저에서 세 사례의 점수·최종 상태와 0점 초기화를 확인했다.
 
 오른쪽의 별도 사람 검수 구역에는 현재 분류 위치 → 수평 이동 통로 → 도착 구역의 3장면 이동을 연결했다. 검수 전환은 점수 도달 즉시 적용하며, 이동하는 동안 추가 모델을 호출하지 않는다. `검수 전환 = 이동 중 + 도착`으로 집계하고, 도착한 상품만 구역의 목록에 표시한다. 이동 화면은 대표 상품을 보여 주며 수량은 전체 상품 기준이다. 동작 줄이기 설정에서는 이동 없이 바로 도착한다.
 
